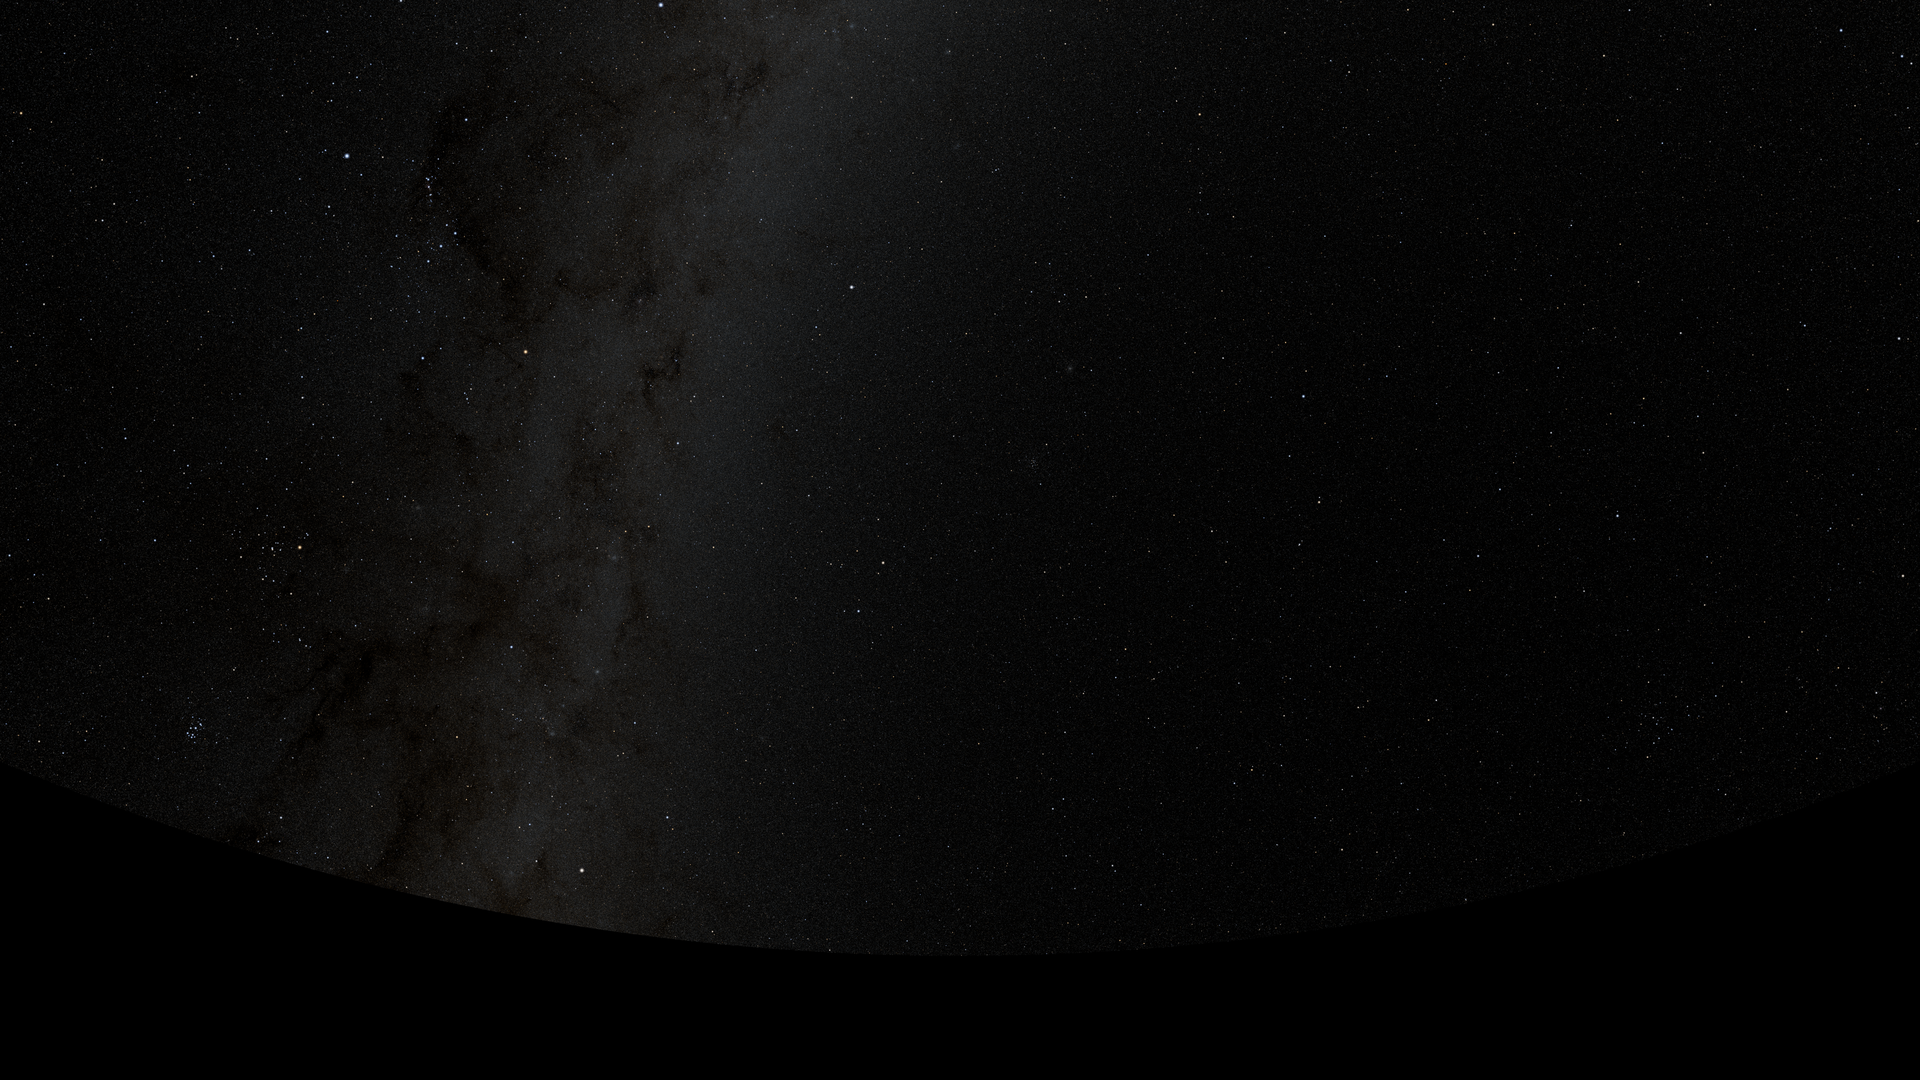
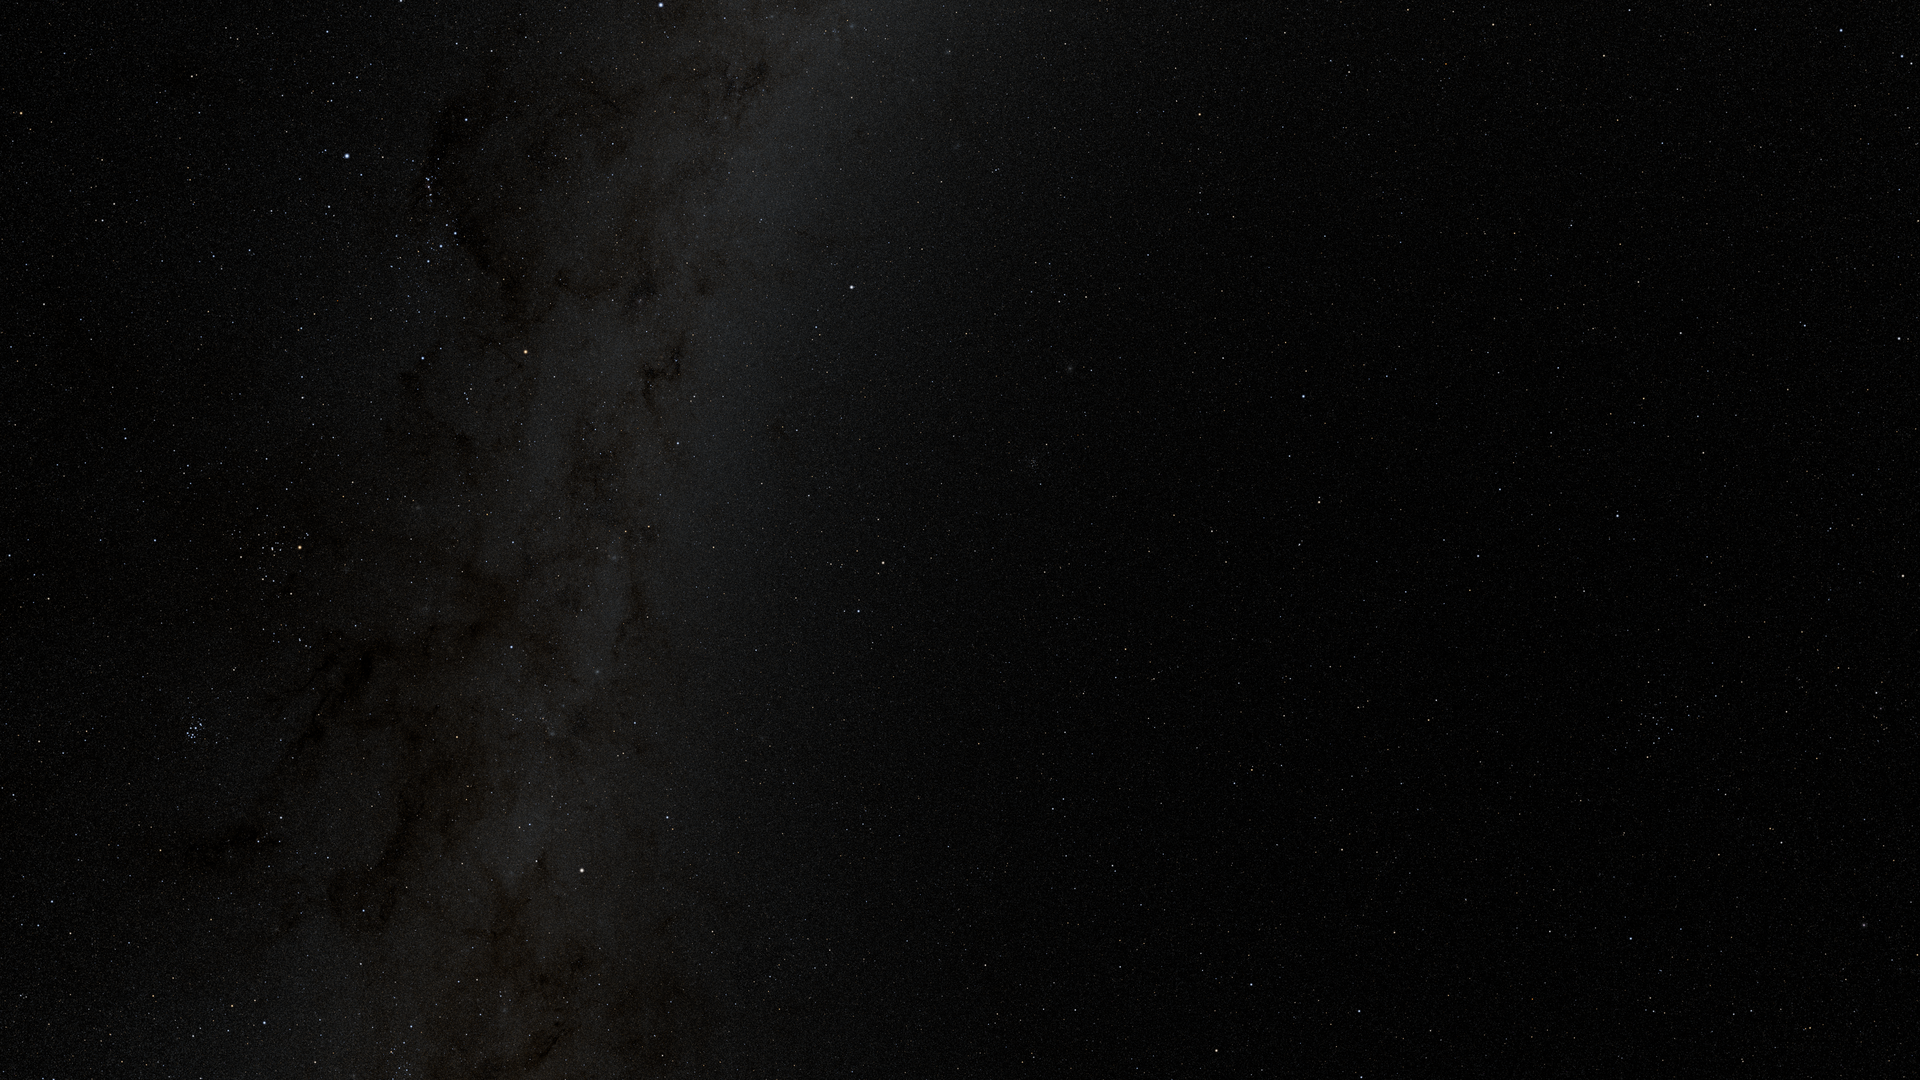
fix(hero): extend desktop sky and linearize its reveal

Changed region(s): [[0.0938, 0.825, 0.375, 1.0]]

diff --git a/app/(home)/_sections/hero/capabilities/sky-background/sky-background.ts b/app/(home)/_sections/hero/capabilities/sky-background/sky-background.ts
@@ -6,7 +6,7 @@ export function createSkyBackgroundCapability(root: HTMLElement): HeroCapability
   if (!artwork) return null
 
   const fadeTimeline = gsap.timeline({ paused: true })
-  fadeTimeline.fromTo(artwork, { opacity: 0.05 }, { opacity: 1, duration: 0.8, ease: 'power2.in' }, 0)
+  fadeTimeline.fromTo(artwork, { opacity: 0.05 }, { opacity: 1, duration: 0.8, ease: 'none' }, 0)
   fadeTimeline.add(() => undefined, 1)
 
   let destroyed = false

diff --git a/README.md b/README.md
@@ -85,9 +85,9 @@ Los mecanismos especiales del framework se eligen por el comportamiento que nece
 ## Carga del mapa y del cielo
 
 - El contenedor del mapa conserva su tamaño desde el render inicial. `DeferredMapCanvas` activa la descarga de MapLibre y su montaje cuando el mapa se aproxima a un viewport de distancia; después permanece montado. Si `IntersectionObserver` no está disponible, se carga directamente. Los filtros y el detalle conservan su estado en `MapExplorer`.
-- El cielo estático del hero usa una visualización derivada de NASA/Goddard Space Flight Center Scientific Visualization Studio, con datos Gaia DR2 (ESA/Gaia/DPAC) y visualización de Ernie Wright; no es una fotografía. Fuente: [NASA SVS 4851](https://svs.gsfc.nasa.gov/4851/), con [política de uso](https://svs.gsfc.nasa.gov/help/). Se entrega `public/hero/sky-desktop.webp` (1920×1080), reducido del PNG aceptado de 3840×2160 con Pillow Lanczos, y `public/hero/sky-mobile.webp` (780×1688), sin redimensionar ni cambiar su recorte. Ambos se codifican con WebP lossless (`lossless=True`, `quality=100`, `method=6`), preservando ICC si existe, sin dithering, enfoque ni tone mapping. Se verifica igualdad completa de píxeles decodificados contra la referencia Lanczos en desktop y el PNG aceptado en mobile: no hay pérdida adicional del códec, pero la reducción desktop no conserva el detalle 4K ni es una copia byte a byte del master. `CREDITS.txt` y `source.json` documentan atribución, orientación, recorte, parámetros, bytes y hashes separados de origen y WebP. Los PNG anteriores y sus metadatos se archivan en `bkp/hero/nasa-png-v1/`, fuera de `public`.
+- El cielo estático del hero usa una visualización derivada de NASA/Goddard Space Flight Center Scientific Visualization Studio, con datos Gaia DR2 (ESA/Gaia/DPAC) y visualización de Ernie Wright; no es una fotografía. Fuente: [NASA SVS 4851](https://svs.gsfc.nasa.gov/4851/), con [política de uso](https://svs.gsfc.nasa.gov/help/). Se entrega `public/hero/sky-desktop.webp` (1920×1080), reducido con Pillow Lanczos de un master de 3840×2160 regenerado desde el mapa NASA original sin pintar de negro el horizonte geométrico. Se conservan encuadre, orientación, muestreo, exposición y tone mapping originales; los píxeles completamente por encima del horizonte son idénticos al master anterior. La extensión usa datos reales del mapa celeste, sin zoom, clonado ni contenido generado; es un fondo visual bajo el horizonte matemático, no una simulación estricta de visibilidad. La silueta de la UI determina la oclusión. `public/hero/sky-mobile.webp` (780×1688) permanece idéntico, sin redimensionar ni cambiar su recorte. Ambos se codifican con WebP lossless (`lossless=True`, `quality=100`, `method=6`), preservando ICC si existe, sin dithering, enfoque ni tone mapping adicional durante la codificación. Se verifica igualdad completa de píxeles decodificados contra la referencia Lanczos en desktop y el PNG aceptado en mobile: no hay pérdida adicional del códec, pero la reducción desktop no conserva el detalle 4K ni es una copia byte a byte del master. `CREDITS.txt` y `source.json` documentan atribución, orientación, recorte, parámetros, bytes y hashes separados de origen y WebP. Los PNG anteriores y sus metadatos se archivan en `bkp/hero/nasa-png-v1/`, fuera de `public`.
 - `sky-background` renderiza un único `<picture>` con un solo `<img>` decorativo y art direction mediante `getImageProps` de Next, sin JavaScript cliente adicional. Selecciona desktop solo con `(min-width: 1024px) and (orientation: landscape)`; teléfonos incluso en horizontal hasta 1023 px y cualquier viewport vertical usan mobile. Cada fuente declara sus dimensiones reales y se ajusta centrada con `object-cover`, sin deformación ni el antiguo plano fijo 16:9: el master móvil no contiene la franja negra inferior. Cada imagen de cielo usa `unoptimized: true`: se entregan URLs WebP estáticas directas, sin `/_next/image`, recodificación ni candidatos responsivos optimizados. El `<source>` desktop usa `desktop.src` como único candidato de `srcSet`; el `<img>` móvil no lleva `srcSet` ni `sizes`. La optimización de las demás imágenes y la configuración global de Next no cambian. La imagen seleccionada carga eager con prioridad alta, sin preload desktop incondicional ni placeholder blur.
-- La revelación mantiene opacidad 0.05→1 al llegar a progreso 0.8, con `power2.in`; con movimiento reducido permanece en el estado inicial. El cielo sigue siendo estático: no hay estrellas proyectadas, titileo, partículas, etiquetas ni composite de respaldo en ejecución. La atmósfera tiene su propio canvas, independiente de la opacidad del cielo.
+- La revelación mantiene opacidad 0.05→1 al llegar a progreso 0.8, ahora con una curva lineal (`ease: 'none'`) para evitar la aparición acelerada al final; con movimiento reducido permanece en el estado inicial. El módulo del cielo conserva su tween y sus parámetros propios: solo recibe el progreso del timeline compartido, sin leer ni derivar valores del módulo de pollution. El cielo sigue siendo estático: no hay estrellas proyectadas, titileo, partículas, etiquetas ni composite de respaldo en ejecución. La atmósfera tiene su propio canvas, independiente de la opacidad del cielo.
 - `light-pollution` incorpora únicamente atmósfera WebGL2: un triángulo y una tabla de alturas RG8 de 2048 muestras (4096 bytes), cargada una sola vez desde el contorno compartido. El shader analítico usa cobertura con derivadas (`fwidth`) y cierre explícito del tramo final empinado; no agrega blur GPU, partículas ni pases de lectura. Dibuja al cambiar progreso, tamaño o posición, con un solo frame pendiente y sin bucle RAF continuo; limita DPR a 2. No se afirma una mejora de FPS sin medición en dispositivos reales.
 - El canvas atmosférico queda sin máscara entre el fondo y el texto enmascarados para permitir el contraluz sobre la montaña. Una referencia de terreno sigue el encuadre y se mide respecto del canvas, incluso al fijar el viewport durante el scroll. Los controladores CSS radial/SVG conservan sus opacidades: solo se ocultan después de un dibujo GPU válido. Sin JavaScript, WebGL2 o con movimiento reducido, error de inicialización/dibujo o pérdida de contexto, siguen como respaldo; el fallo es terminal para ese montaje, sin reintentos automáticos. El desmontaje libera recursos, observador, listeners y frame pendiente.
 - Los logos del header y de la franja institucional declaran tamaños de descarga acordes a su presentación. Se mantienen las dimensiones y estilos existentes.
